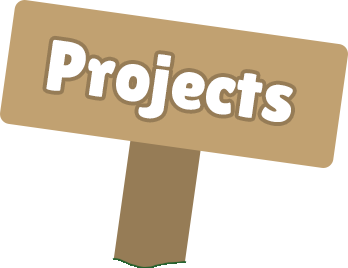
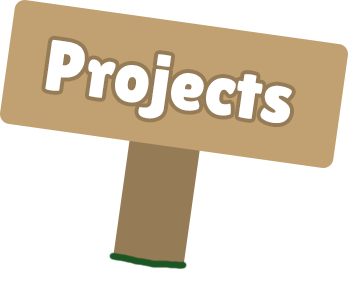
sign and background update

diff --git a/portfolio-stylesheet.css b/portfolio-stylesheet.css
@@ -9,7 +9,7 @@ body {
     background-attachment: scroll;
     background-position: absolute;
     overflow-y: scroll;
-    min-height: 150vw;
+    min-height: 157.5vw;
     background-size: 100%;
 }
 
@@ -47,8 +47,8 @@ body {
 .signProjects {
     width: 15vw;
     height: auto;
-    margin-left: 62.5vw;
-    margin-top: 4vw;
+    margin-left: 62vw;
+    margin-top: 3.5vw;
 }
 
 footer {
